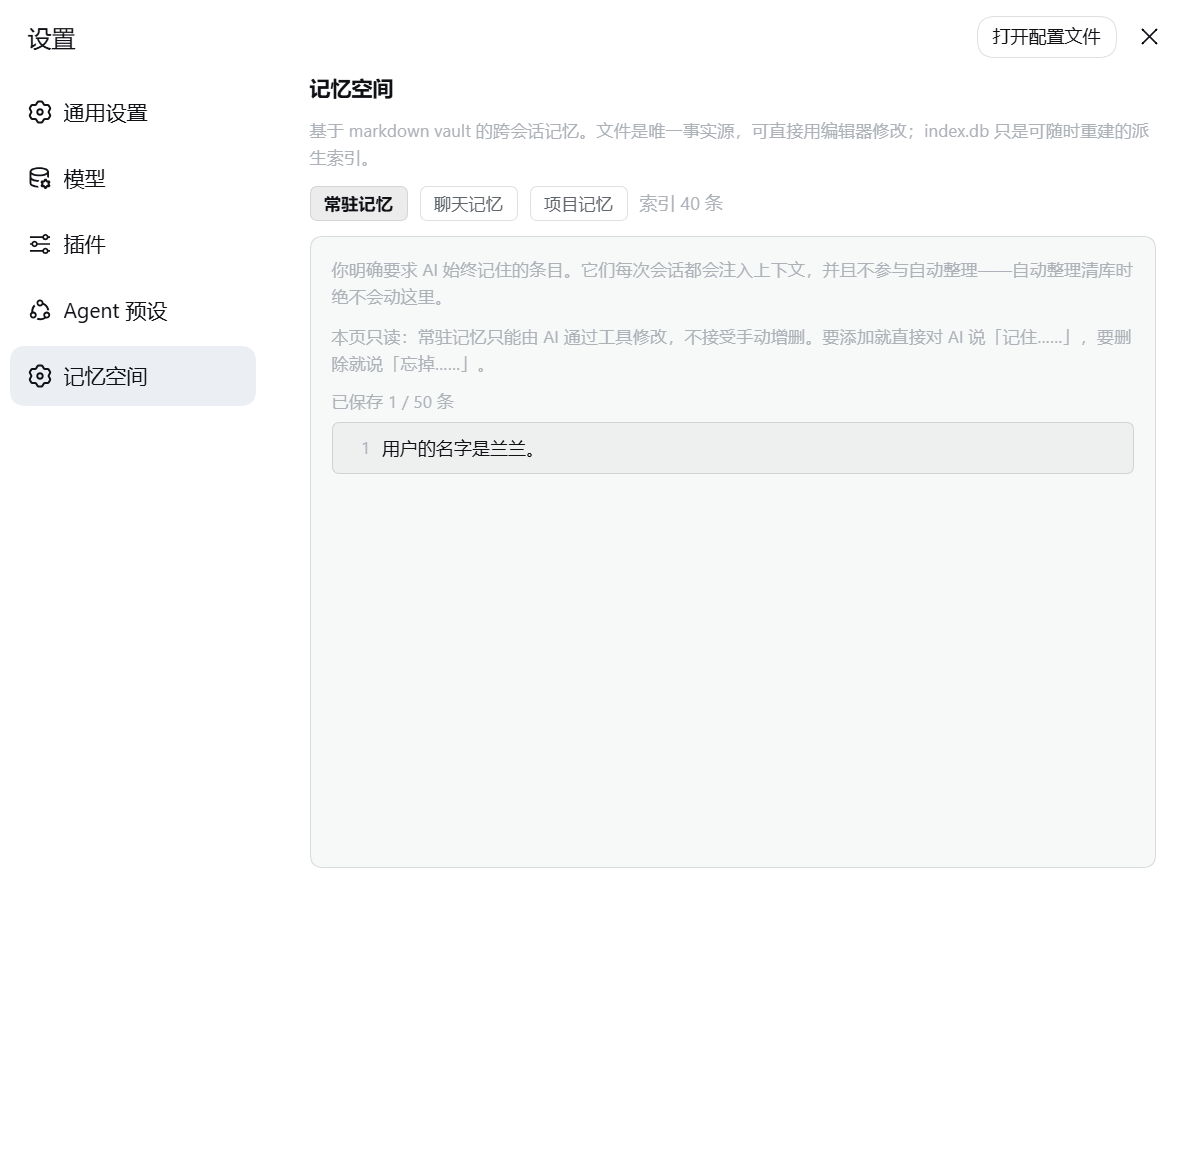
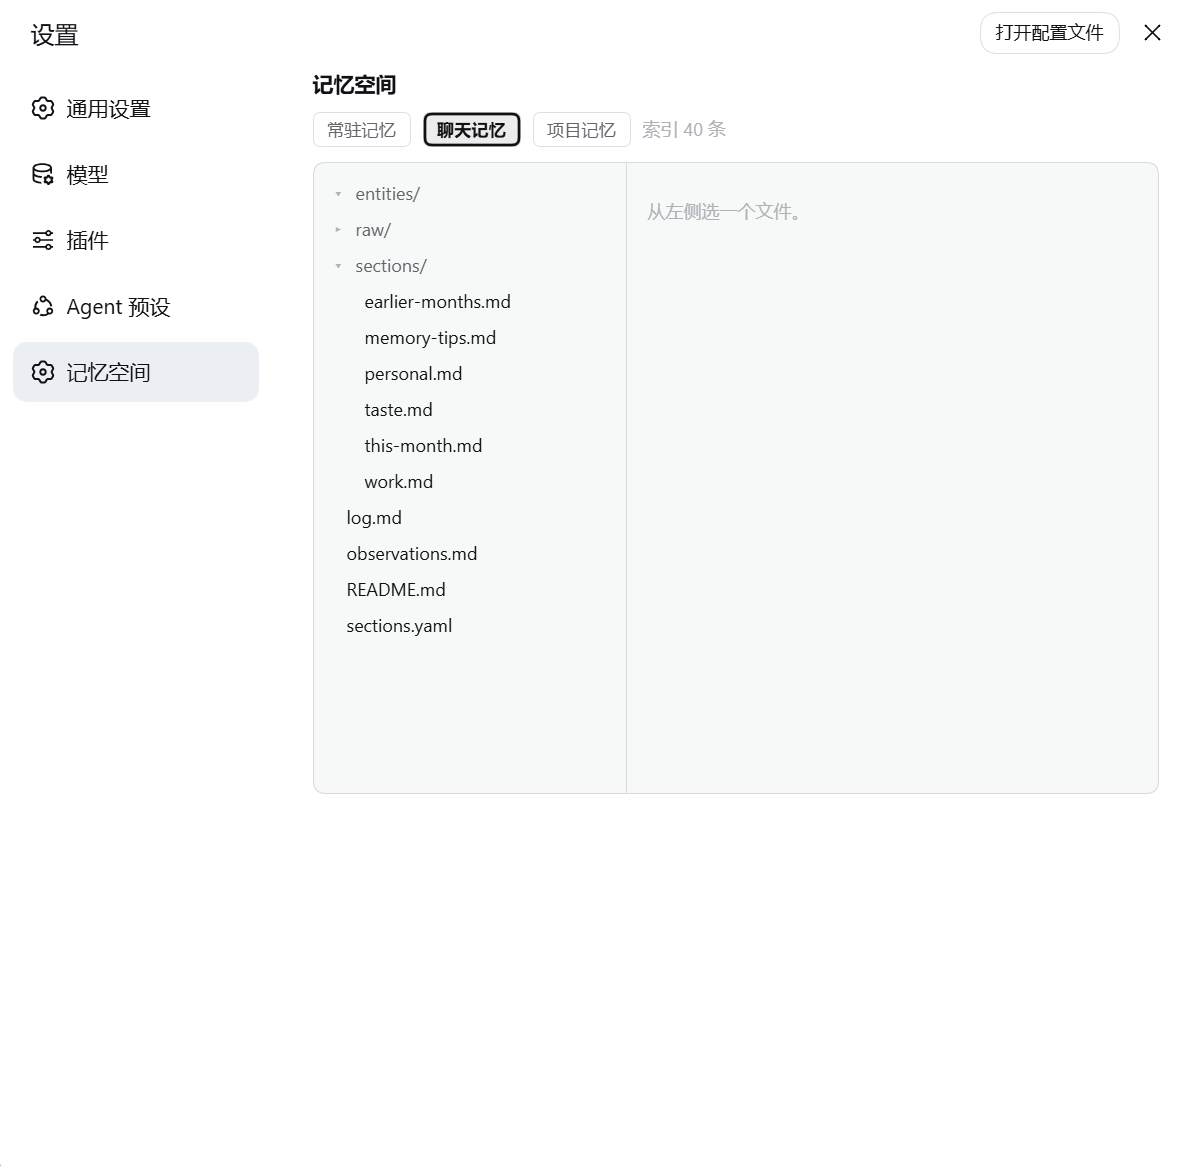
dsh-mem: 换掉记忆空间截图（旧图还带着删掉的那句），并强调聊天记忆必须用聊天模式
- memory-space.png 换成重启后重拍的：标题下面直接是三个 tab，不再有
  「基于 markdown vault 的跨会话记忆……index.db 只是派生索引」那句（两轮前已删）
- 开头那段改成以要求打头：「**聊天记忆必须用「聊天模式」才有。**」，
  并写清不选它的后果（整套完全不加载、说过的话也进不了聊天空间）
- 「装」里加一条 ⚠ 提示，点明最容易踩的坑：插件装好了但一直用标准模式，
  聊天区会永远是空的 —— 聊天空间按会话的 preset 身份认，不按目录也不按开关

diff --git a/README.md b/README.md
@@ -14,9 +14,10 @@
 重读全部（照 Claude Code 的 compact 那套）。所以成本差得很开 —— 有整场要读的那晚
 **十几到二十几万 token**，只有新增的那晚**几万**。
 
-**聊天记忆和项目记忆是分开的** —— 免得聊天那套影响正常项目。必须选「聊天模式」才用得上
-聊天记忆系统，项目会话里它完全不参与。项目记忆之间也互不相通（A 项目的记忆不会进 B 项目
-的上下文），但可以主动查询：跨对话查所有项目的进度和具体改动。
+**聊天记忆必须用「聊天模式」才有。** 不选它，会话一律按项目处理 —— 聊天记忆那一套（RCC、
+常驻注入）**完全不会加载**，你说过的话也进不了聊天空间。这是故意的：免得聊天那套影响正常
+项目。**项目记忆之间也互不相通**（A 项目的记忆不会进 B 项目的上下文），但可以主动查询：
+跨对话查所有项目的进度和具体改动。
 
 ## 装
 
@@ -28,8 +29,11 @@ dsh plugin --profile web add github:mulan2022/dsh-mem
 
 > npm 上那个 `dsh-mem` 是别人写的另一个插件，**不要**用 `dsh plugin add dsh-mem`。
 
-想用聊天记忆，再装一份 `chat` preset。聊天空间是按 preset 身份认的，没有它进不去
-（会话会被当成项目）：
+> ⚠ **没有「聊天模式」就没有聊天记忆。** 这是最容易踩的一点：插件装好了、一直在用标准模式，
+> 聊天区会永远是空的 —— 因为聊天空间是按**会话的 preset 身份**认的，不是按目录、也不是按开关。
+> **每个想记进聊天记忆的会话，都得选「聊天模式」。**
+
+想用聊天记忆，就装这份 `chat` preset：
 
 ```sh
 mkdir -p ~/.dsh/.agent-presets/chat
